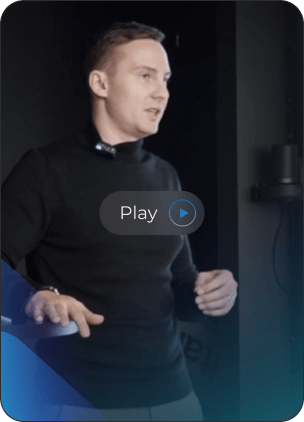
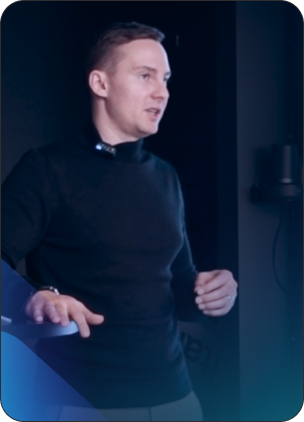
about update

diff --git a/css/styles.css b/css/styles.css
@@ -3103,6 +3103,10 @@ p a[data-fx="12"] {
   padding-bottom: 2rem;
   z-index: 1;
   padding-top: 4em; }
+  @media (min-width: 1440px) {
+    .about__intro--wrapper {
+      padding-left: 100px;
+      padding-right: 100px; } }
   @media (max-width: 1280px) {
     .about__intro--wrapper {
       width: 100%; } }
@@ -3121,6 +3125,10 @@ p a[data-fx="12"] {
   width: 100%;
   height: 100%;
   position: relative; }
+  .speech__image:hover .play_button {
+    transform: scale(1.08);
+    box-shadow: 0 64px 64px 0 rgba(134, 135, 160, 0.02), 0 32px 32px 0 rgba(117, 120, 153, 0.02), 0 16px 16px 0 rgba(118, 119, 155, 0.02), 0 8px 8px 0 rgba(122, 120, 152, 0.06), 0 4px 4px 0 rgba(118, 115, 154, 0.04), 0 64px 64px 0 rgba(134, 135, 160, 0.08), 0 32px 32px 0 rgba(117, 120, 153, 0.05);
+    backdrop-filter: blur(15px); }
   .speech__image::after {
     content: " ";
     position: absolute;
@@ -3130,6 +3138,25 @@ p a[data-fx="12"] {
     height: 116px;
     z-index: 1;
     background: url("../img/about/me_conference2.png") no-repeat; }
+
+.play_button {
+  display: flex;
+  flex-direction: row;
+  line-height: 2.75rem;
+  padding-left: 1.25rem;
+  padding-right: 0.625rem;
+  color: #fff;
+  font-size: 1rem;
+  background: rgba(255, 255, 255, 0.15);
+  border-radius: 2.25rem;
+  backdrop-filter: blur(10px);
+  position: absolute;
+  top: 45%;
+  left: 35%;
+  gap: 0.6rem;
+  transition: all 0.3s ease-in-out;
+  border: 1px solid rgba(255, 255, 255, 0.15);
+  transform: scale(1); }
 
 .intro__right {
   display: flex;
@@ -3185,7 +3212,7 @@ p a[data-fx="12"] {
   display: flex;
   flex-direction: row;
   align-items: center;
-  width: 1280px;
+  max-width: 1280px;
   height: 100%;
   background: linear-gradient(180deg, #1E1E36 0%, #0D0D19 100%);
   color: #fff;
@@ -3235,6 +3262,13 @@ p a[data-fx="12"] {
     display: flex;
     align-items: center;
     gap: 16px; }
+    .cer__left li a {
+      display: flex;
+      align-items: center;
+      gap: 16px;
+      color: #CACDCE; }
+    .cer__left li a:hover {
+      text-decoration: underline; }
 
 .caption {
   display: flex;

diff --git a/sass/_about_main.scss b/sass/_about_main.scss
@@ -121,6 +121,7 @@ p a[data-fx="12"] {
 }
 
 
+
 .about__intro--wrapper {
   display: flex;
   flex-direction: row;
@@ -132,6 +133,10 @@ p a[data-fx="12"] {
   z-index: 1;
   padding-top: 4em;
 
+  @media (min-width:1440px) {
+    padding-left: 100px;
+    padding-right: 100px;
+  }
 
   @media (max-width:1280px) {
     width: 100%;
@@ -155,6 +160,12 @@ p a[data-fx="12"] {
   width: 100%;
   height: 100%;
   position: relative;
+
+  &:hover .play_button {
+    transform: scale(1.08);
+    box-shadow: 0 64px 64px 0 rgba(134,135,160,0.02), 0 32px 32px 0 rgba(117,120,153,0.02), 0 16px 16px 0 rgba(118,119,155,0.02), 0 8px 8px 0 rgba(122,120,152,0.06), 0 4px 4px 0 rgba(118,115,154,0.04), 0 64px 64px 0 rgba(134,135,160,0.08), 0 32px 32px 0 rgba(117,120,153,0.05);
+    backdrop-filter: blur(15px);
+  }
  
   &::after {
     content: " ";
@@ -167,6 +178,26 @@ p a[data-fx="12"] {
     background: url("../img/about/me_conference2.png") no-repeat;
   }
 
+}
+
+.play_button {
+  display: flex;
+  flex-direction: row;
+  line-height: 2.75rem;
+  padding-left: 1.25rem;
+  padding-right: 0.625rem;
+  color: $color-white;
+  font-size: 1rem;
+  background: rgba(255, 255, 255, 0.15);
+  border-radius: 2.25rem;
+  backdrop-filter: blur(10px);
+  position: absolute;
+  top: 45%;
+  left: 35%;
+  gap: 0.6rem;
+  transition: all 0.3s ease-in-out;
+  border: 1px solid rgba(255, 255, 255, 0.15);
+  transform: scale(1.0);
 }
 
 
@@ -229,7 +260,7 @@ p a[data-fx="12"] {
   display: flex;
   flex-direction: row;
   align-items: center;
-  width: 1280px;
+  max-width: 1280px;
   height: 100%;
   background: linear-gradient(180deg, #1E1E36 0%, #0D0D19 100%) ;
   color: $color-white;
@@ -293,6 +324,15 @@ p a[data-fx="12"] {
     align-items: center;
     gap: 16px;
 
+    a {
+      display: flex;
+      align-items: center;
+    gap: 16px;
+      color: $text-shadow;
+    }
+    a:hover {
+      text-decoration: underline;
+    }
   };
 }
 
@@ -301,7 +341,6 @@ p a[data-fx="12"] {
   flex-direction: row;
   font-size: $textsize--small;
 }
-
 
 //konec intra
 

diff --git a/about-new.php b/about-new.php
@@ -9,10 +9,7 @@
     <?php include '_partials/loading.php'; ?>
     <?php include '_partials/meta-links.php'; ?>
 
-    <meta name="description"
-        content="About me - 🤘I am Staff digital Product designer with a passion for design & business and with one rule in mind - Design is everything.">
-    <meta name="keywords"
-        content="ux designer,ux design,ux, user interface design, ui design, ux research,ui ix designer, interaction designer, user experience, mobile app design">
+    <meta name="description" content="About me - 🤘I'm Staff digital Product designer with a passion for design & business and with one rule in mind - Design is everything.">
     <title>About me - David Jambor - Staff digital product (UI/UX/IxD) designer 🤘</title>
 
 </head>
@@ -50,7 +47,7 @@
             <div id="header_text--about">
                 <h1><span class="highlight_blue">I can</span> help you build ambitious digital product</h1>
                 <p>Hey, I'm David, Staff product designer with a passion for design & business . My guiding principle is - 
-                    <a target="_blank" href="https://www.facebook.com" class="link odkaz anim-middleout">Design is everything</a>. Currently designing GenAI features that empower sales professionals for Outreach.io. I'm based in Czechia (CET) timezone. Working with global teams.</p>
+                    <a target="_blank" href="#about__principles" class="link odkaz anim-middleout">Design is everything</a>. Currently designing GenAI features that empower sales professionals for Outreach.io. I'm based in Czechia (CET) timezone. Working with global teams.</p>
                 <div class="ab_stats">
                     <ul>
                         <li>12+ <span>Years in design</span></li>
@@ -121,21 +118,22 @@
                                   
                                     <div class="play_button">
                                         <span>Play</span>
+                                        <img src="img/play.svg" alt="Play presentation" width="26px" height="26px" loading="lazy">
                                     </div>
                             </figure>
                         </a>
                     </div>
                     <div class="intro__right">
-                        <h2>Building digital products </h2>
+                        <h2>Building digital products</h2>
                         <div class="about_header--row"> 
-                            <h2>with</h2>
+                            <h2>powered by</h2>
                             <div class="aisphere"><img srcset="img/about/aisphere@1x.png 1x, img/about/aisphere@2x.png 2x" alt="AI Sphere" width="145px" height="153px" loading="lazy"></div>
-                            <h2>GenAI & startups</h2>
+                            <h2>GenAI</h2>
                          </div>
 
-                        <p>Hello, I’m David, thrilled Product designer with a passion for simplicity, function design and with one rule in my mind - Design is everything. Currently designing the Customer Support app at Czech startup Kiwi.com in Brno.. Medium articleHello, I’m David, thrilled Product designer with a passion for simplicity, function design and with one rule in my mind - Design is everything. Currently designing the Customer Support app at Czech startup Kiwi.com in Brno.. Medium article.  Get in touch</p>
+                        <p>I enjoy working in a startup mode, where I’m part of a small but ambitious team striving to disrupt a specific domain or deliver a unique solution. This is where I bring the most value, leveraging my generalist approach and diverse skillset. I also find joy in tackling complex products powered by GenAI – especially when the team understands the transformative potential of their work and upholds ethical principles and safeguards. Shall we talk?</p>
                         <div class="tags">
-                            <h3>My niche</h3>
+                            <h4>My design focus and interests</h4>
                             <ul class="tags__list">
                                 <li>AI tools</li>
                                 <li>GenAI</li>
@@ -184,13 +182,33 @@
                         <h3>Certifications & courses</h3>
                         <div class="row">
                             <ul>
-                                <li data-tooltip="Presented by Vitaly Friedman"><img src="./img/about/smashing.svg" alt="Awwwards certification" width="24px" height="24px" loading="lazy">Design for complex UIS</li>
-                                <li data-tooltip="Awwwards academy"><img src="./img/about/awwards.svg" alt="Awwwards certification" width="24px" height="24px" loading="lazy">Motion</li>
-                                <li data-tooltip="Awwwards academy"><img src="./img/about/awwards.svg" alt="Awwwards certification" width="24px" height="24px" loading="lazy">Art direction</li>
+                                <li data-tooltip="Presented by Vitaly Friedman">
+                                    <img src="./img/about/smashing.svg" alt="Awwwards certification" width="24px" height="24px" loading="lazy">Design for complex UIS
+                                </li>
+
+                                <li>
+                                    <a href="img/about/certification/motion.png" data-fancybox="gallery" class="link">
+                                        <img src="./img/about/awwards.svg" alt="Awwwards certification for Motion skills" width="24px" height="24px" loading="lazy">Motion
+                                    </a>
+                                </li>
+
+                                <li>
+                                    <a href="img/about/certification/art-direction.png" data-fancybox="gallery" class="link">
+                                     <img src="./img/about/awwards.svg" alt="Awwwards certification for art direction" width="24px" height="24px" loading="lazy">Art direction
+                                    </a>
+                                </li>
                             </ul>
                             <ul>
-                                <li data-tooltip="Product school"><img src="./img/about/productschool.png" alt="Awwwards certification" width="24px" height="24px" loading="lazy">Product metrics</li>
-                                <li data-tooltip="Product school"><img src="./img/about/productschool.png" alt="Awwwards certification" width="24px" height="24px" loading="lazy">Product strategy</li>
+                                <li>
+                                     <a href="img/about/certification/analytics.png" data-fancybox="gallery" class="link">
+                                        <img src="./img/about/productschool.png" alt="Product metrics certification" width="24px" height="24px" loading="lazy">Product metrics
+                                    </a>
+                                </li>
+                                <li>
+                                    <a href="img/about/certification/product_strategy.png" data-fancybox="gallery" class="link">
+                                        <img src="./img/about/productschool.png" alt="Product strategy certification" width="24px" height="24px" loading="lazy">Product strategy
+                                    </a>
+                                </li>
                                 <li data-tooltip="Deque.com"><img src="./img/about/deque.svg">Accessibility training</li>
                             </ul>
                         </div>
@@ -475,7 +493,7 @@
         <section id="about__opinions">
             <div class="opinions__graphic">
                 <div class="about--wrapper">
-                    <h1>Work <span class="highlight_blue">attitude</span><br> & references</h1>
+                    <h1>Work <span class="highlight_blue">attitude</span><br> & recommendations</h1>
                     <p class="opinions__intro">
                         I feel fortunate to have transformed my passion for digital product design and development into a fulfilling career that positively impacts people's lives. For me, it's more than just a job – it's a personal interest and hobby that drives me to strive for excellence in every project I undertake. My dedication&nbsp;<span class="blues">+</span>&nbsp;commitment to achieving exceptional outcomes stem from my passion for the craft, rather than a sense of obligation. I believe that my genuine enthusiasm and unwavering focus on delivering quality results are what have earned me recognitions from my peers and clients alike.
                     </p>

diff --git a/work.php b/work.php
@@ -9,10 +9,7 @@
     <?php include '_partials/loading.php'; ?>
     <?php include '_partials/meta-links.php'; ?>
 
-    <meta name="description"
-        content="About me -I’m senior product designer with a passion for functional design and with one rule in mind - Design is everything.">
-    <meta name="keywords"
-        content="ux designer,ux design,ux, user interface design, ui design, ux research,ui ix designer, interaction designer, user experience, mobile app design">
+    <meta name="description" content="About me -I’m senior product designer with a passion for functional design and with one rule in mind - Design is everything.">
     <title>My work - UX projects and design for digital products</title>
 </head>
 

diff --git a/contact.php b/contact.php
@@ -10,10 +10,7 @@
     <?php include('_partials/loading.php') ?>
     <?php include('_partials/meta-links.php') ?>
 
-    <meta name="description"
-        content="Contact me — I’m Senior product designer with a passion for functional design and with one rule in mind - Design is everything.">
-    <meta name="keywords"
-        content="contact, contact me ,ux, user interface design, ui design, ux research, ui ix designer, interaction designer, user experience, mobile app design">
+    <meta name="description" content="Contact me — I’m Senior product designer with a passion for functional design and with one rule in mind - Design is everything.">
     <title>Contact - Senior product designer</title>
 
 </head>

diff --git a/index.php b/index.php
@@ -10,10 +10,8 @@
     <?php include '_partials/loading.php'; ?>
     <?php include '_partials/meta-links.php'; ?>
 
-    <meta name="description"
-        content="🤘I’m Senior product designer with a passion for functional design and with one rule in mind - Design is everything.">
-    <meta name="keywords"
-        content="ux designer,ux design,ux, user interface design, ui design, ux research,ui ix designer, interaction designer, user experience, mobile app design">
+    <meta name="description" content="🤘I’m Staff product designer with a passion for functional design and with one rule in mind - Design is everything.">
+
     <title>David Jambor - Portfolio - Staff product designer 🤘</title>
 
 </head>
